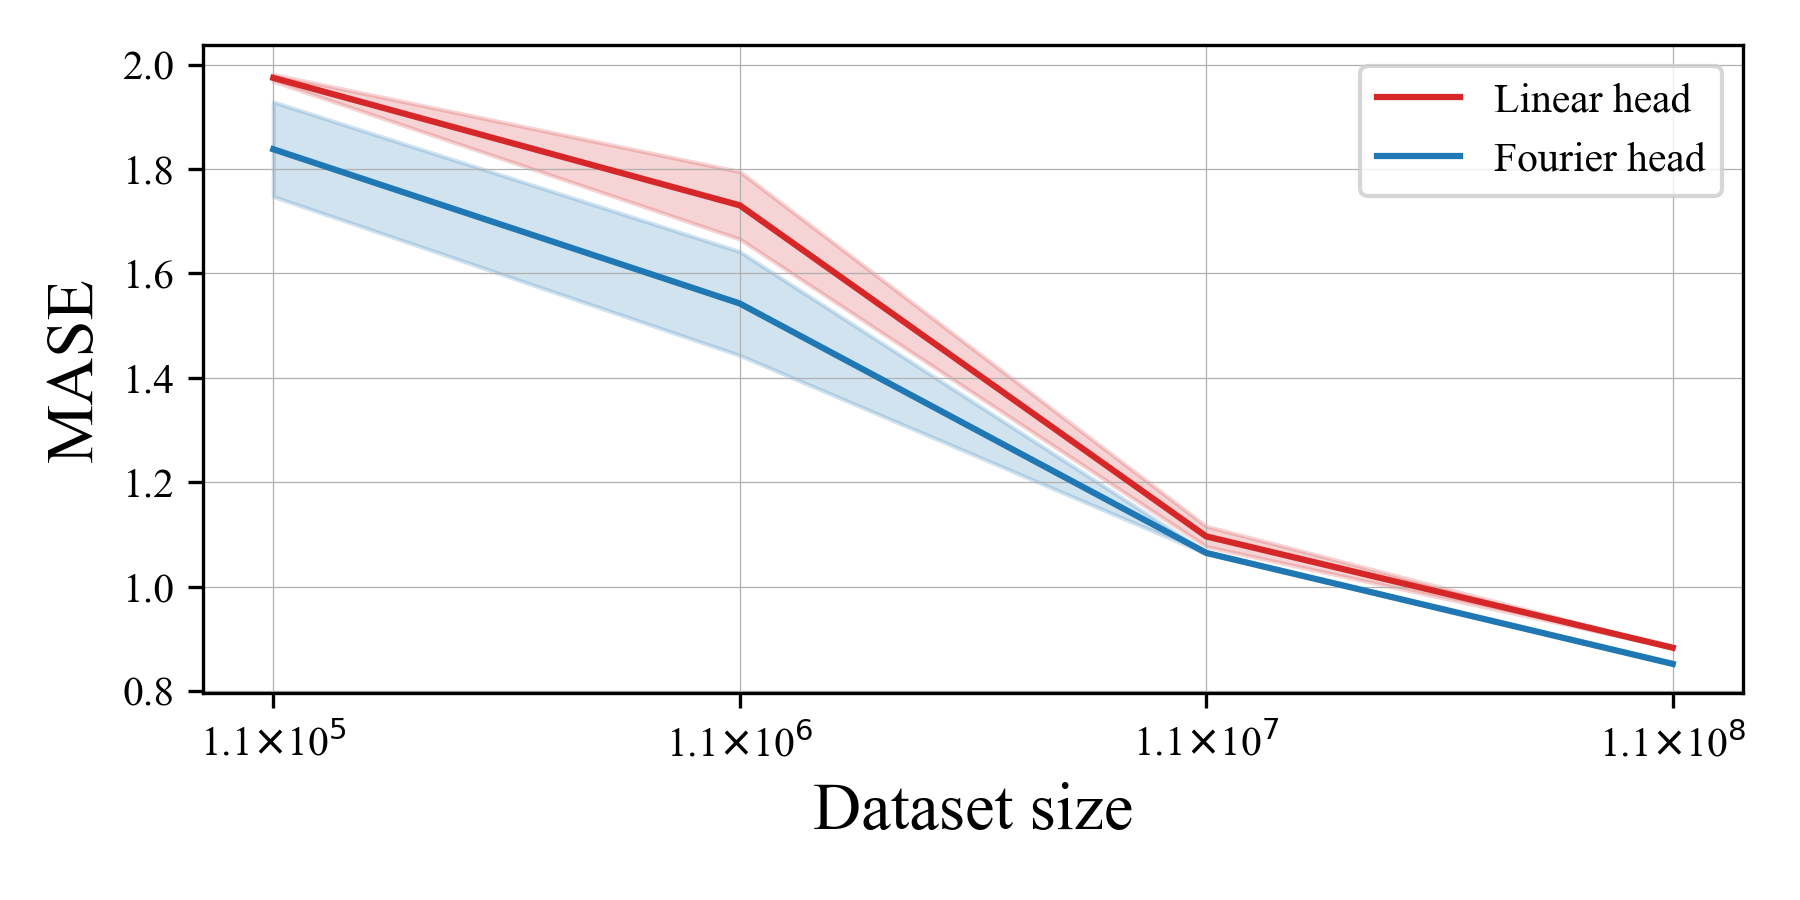
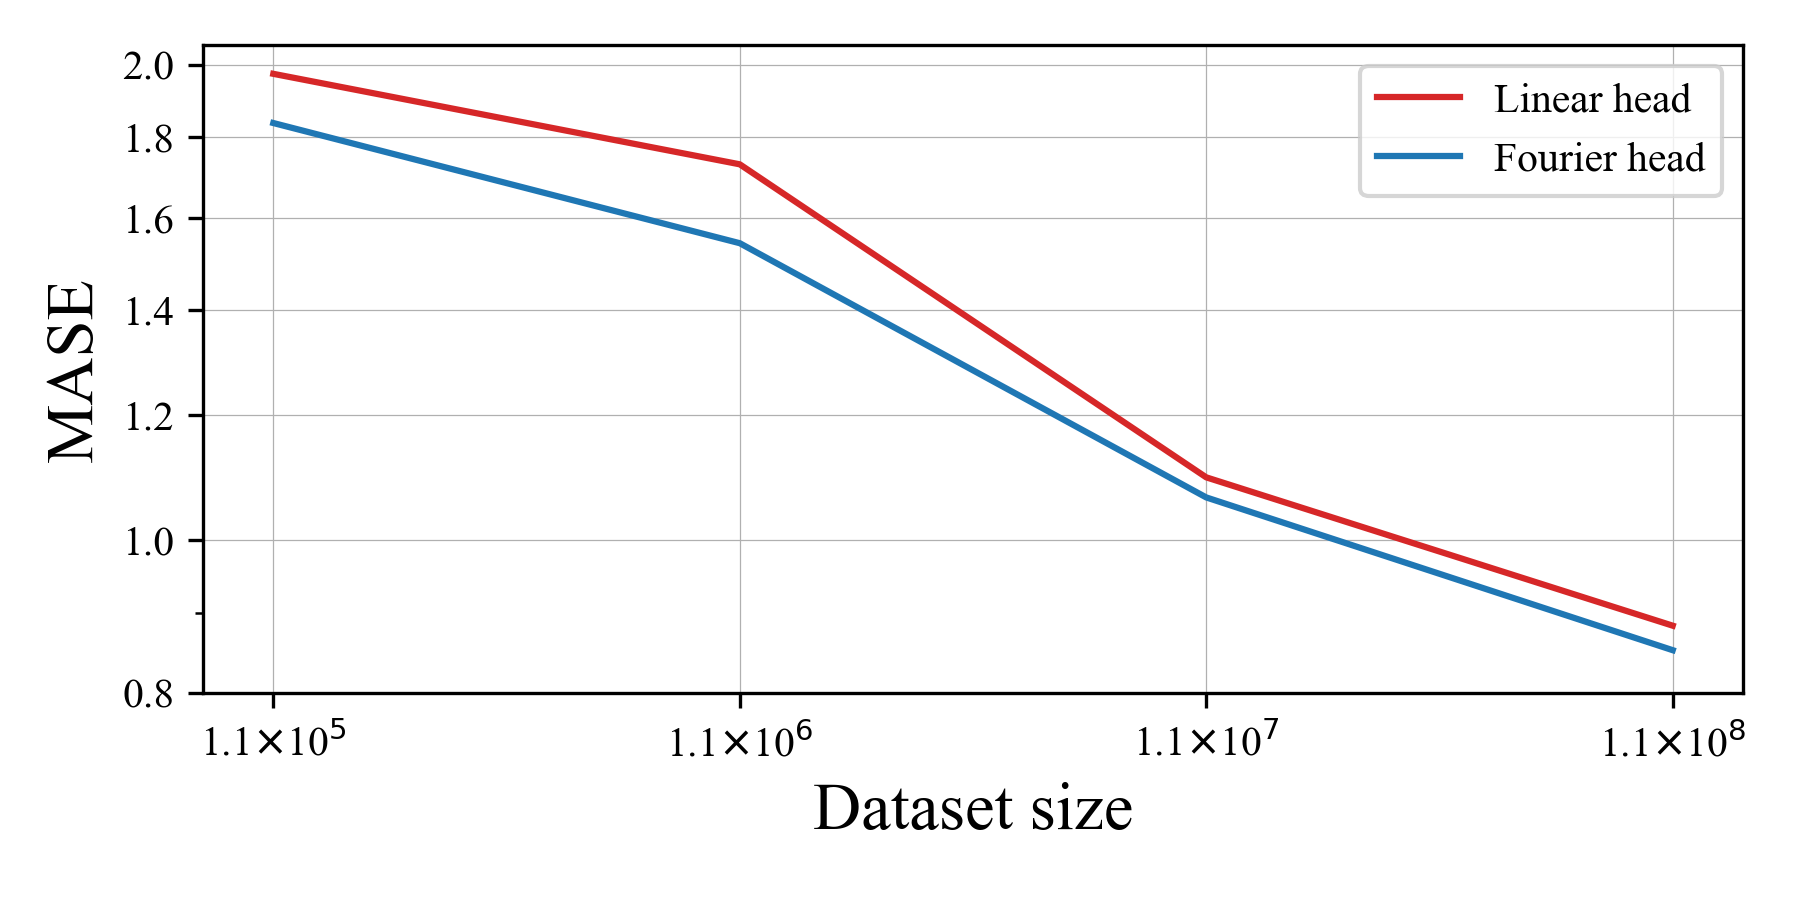
graph update

diff --git a/time-series-forecasting/scripts/eval/graphing/chronos_ablation_varying_dataset_size_v3.py b/time-series-forecasting/scripts/eval/graphing/chronos_ablation_varying_dataset_size_v3.py
@@ -106,24 +106,17 @@ def build_graph(metric_name, linear_values, fourier_values, linear_std, fourier_
     # Plot linear metric
     ax.plot(x_positions, linear_values, c="tab:red", label="Linear head")
     # Plot standard deviation tunnel for linear metric
-    ax.fill_between(
-        x_positions, 
-        np.array(linear_values) - np.array(linear_std)/DIVIDE_STD_BY, 
-        np.array(linear_values) + np.array(linear_std)/DIVIDE_STD_BY, 
-        color="tab:red", 
-        alpha=0.2
-    )
 
     # Plot fourier metric
     ax.plot(x_positions, fourier_values, c="tab:blue", label="Fourier head")
     # Plot standard deviation tunnel for linear metric
-    ax.fill_between(
-        x_positions, 
-        np.array(fourier_values) - np.array(fourier_std)/DIVIDE_STD_BY, 
-        np.array(fourier_values) + np.array(fourier_std)/DIVIDE_STD_BY, 
-        color="tab:blue", 
-        alpha=0.2
-    )
+
+    ax.set_yscale('log')
+
+    # Set custom y-axis ticks
+    yticks = [0.8, 1.0, 1.2, 1.4, 1.6, 1.8, 2.0]
+    ax.set_yticks(yticks)
+    ax.set_yticklabels([f'{y:.1f}' for y in yticks])
     
     ax.set_ylabel(metric_name, fontsize=16)
     ax.grid(True, linewidth=0.3)
